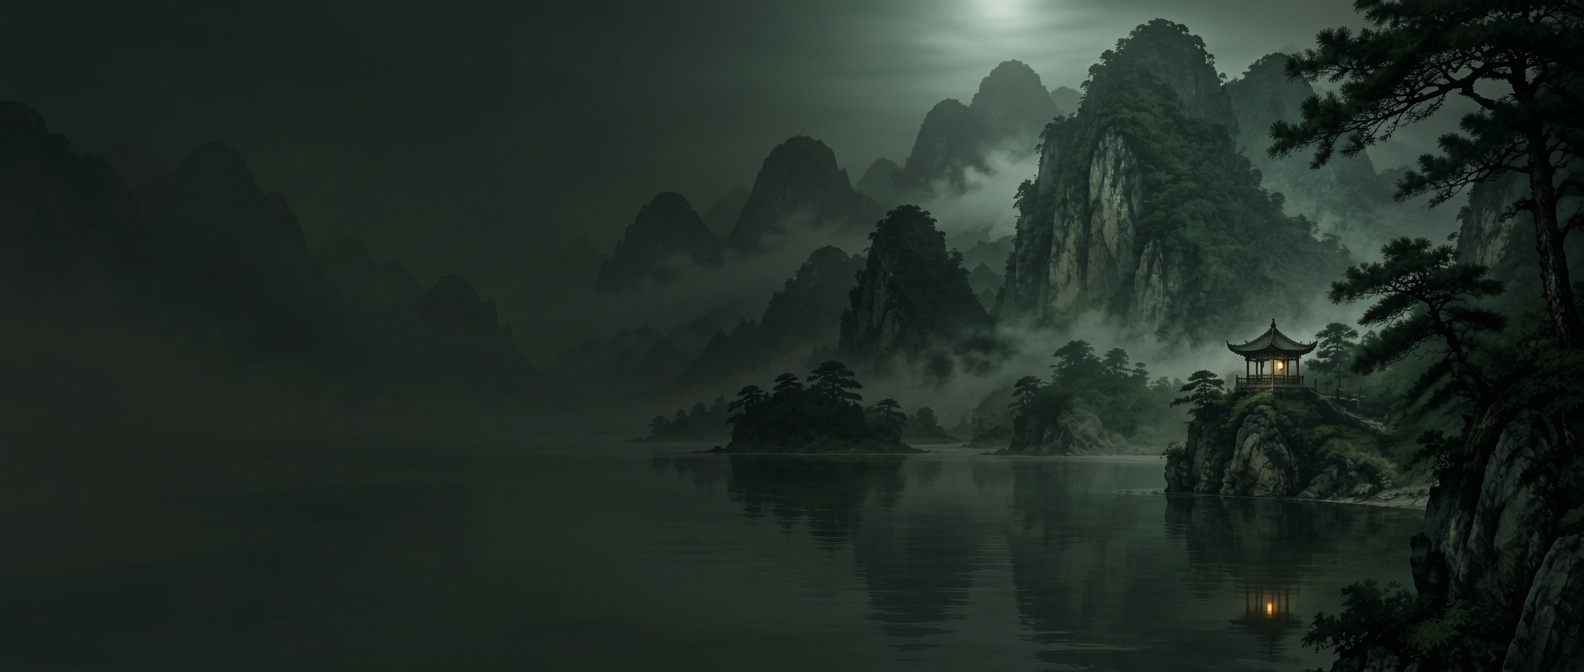
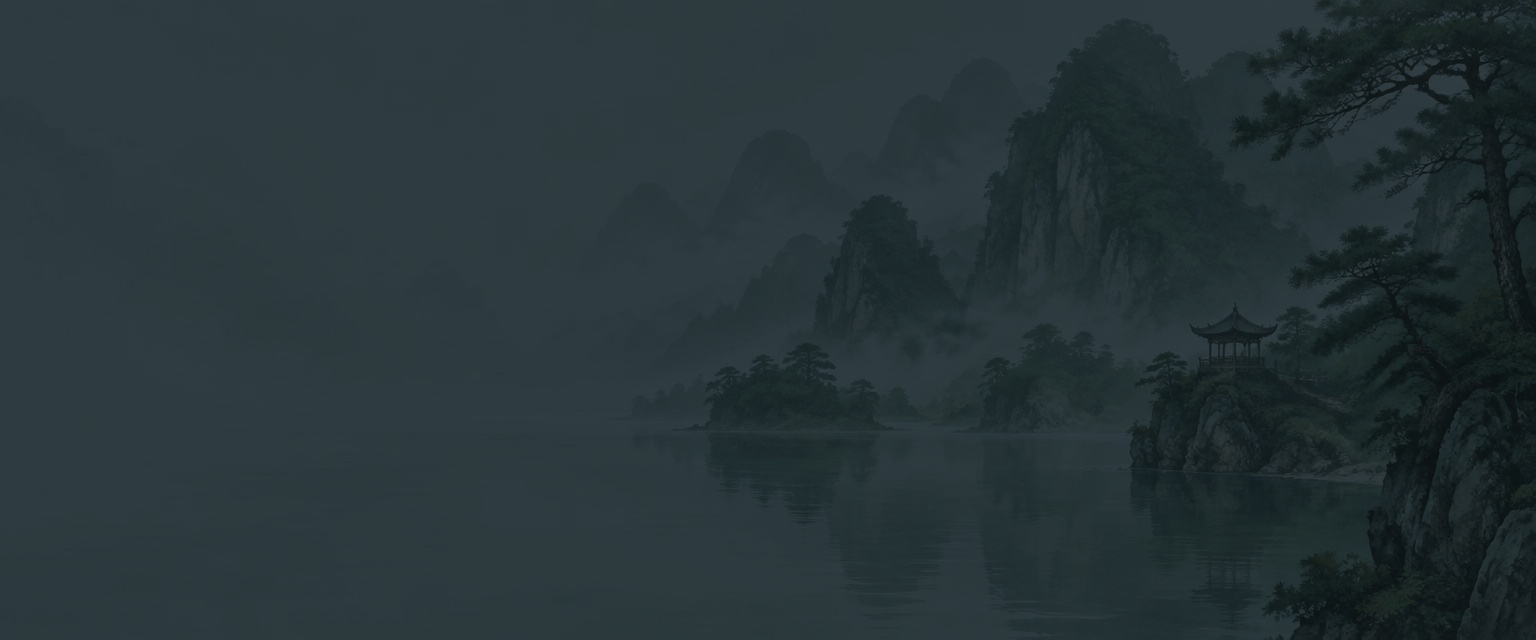
Changes

diff --git a/src/components/tutor/overview.tsx b/src/components/tutor/overview.tsx
@@ -31,11 +31,11 @@ function searchAll(items: Word[], query: string, includeTraditional = false): Se
 }
 
 export function OverviewPage() {
-  const { items, preferences, theme } = useWorkspace();
+  const { items, preferences } = useWorkspace();
   const [query, setQuery] = useState('');
   const hits = searchAll(items, query, preferences.includeTraditional);
   return <div className="page-enter"><div className="page-heading"><div><div className="eyebrow">YOUR DAILY DOSE OF MANDARIN</div><h1>Your Mandarin journey</h1><p>A little curiosity. A little practice. A little closer.</p></div><span className="heading-hanzi" lang="zh-CN">你好<span>nǐ hǎo</span></span></div>
-    <section className="journey-banner"><img src={theme === 'dark' ? mountainNight : mountain} width={1536} height={640} alt={theme === 'dark' ? 'Moonlit mountains and a lantern-lit Chinese pavilion beside a river' : 'Misty green mountains and a quiet Chinese pavilion beside a river'}/><div className="banner-copy"><span className="banner-eyebrow">学无止境 · LEARNING NEVER ENDS</span><h2>Small steps.<br/><em>A world of meaning.</em></h2><p>Discover the words. Hear the tones.<br/>Make the language your own.</p><div className="hero-search"><div className="search-field"><Search/><input aria-label="Search everything" placeholder="Search a word, character, pinyin, or meaning…" value={query} onChange={e => setQuery(e.target.value)}/></div>{query.trim() !== '' && <div className="hero-search-results" role="listbox" aria-label="Search results">{hits.length ? hits.map(hit => hit.kind === 'Word' ? <Link key={`w-${hit.word.id}`} to="/vocabulary" className="hero-search-hit" role="option" aria-selected={false} onClick={() => setQuery('')}><strong lang="zh-CN">{hit.word.hanzi}</strong><span className="pinyin">{hit.word.pinyin}</span><span className="hit-meaning">{hit.word.meaning}</span><span className="hit-kind">Word</span></Link> : <Link key={`${hit.kind}-${hit.hanzi}`} to="/strokes" search={{ character: hit.hanzi }} className="hero-search-hit" role="option" aria-selected={false} onClick={() => setQuery('')}><strong lang="zh-CN">{hit.hanzi}</strong><span className="pinyin">{hit.pinyin}</span><span className="hit-meaning">{hit.meaning}</span><span className="hit-kind">{hit.kind}</span></Link>) : <p className="hero-search-empty">No matches yet — try a character, pinyin, or English meaning.</p>}</div>}</div><Button asChild><Link to="/vocabulary">Explore vocabulary <ArrowRight/></Link></Button></div><span className="banner-seal" lang="zh-CN">一步<br/>一步</span></section>
+    <section className="journey-banner"><img className="banner-day" src={mountain} width={1536} height={640} alt="Misty mountains and a quiet Chinese pavilion beside a river"/><img className="banner-night" src={mountainNight} width={1536} height={640} alt="" aria-hidden="true"/><div className="banner-copy"><span className="banner-eyebrow">学无止境 · LEARNING NEVER ENDS</span><h2>Small steps.<br/><em>A world of meaning.</em></h2><p>Discover the words. Hear the tones.<br/>Make the language your own.</p><div className="hero-search"><div className="search-field"><Search/><input aria-label="Search everything" placeholder="Search a word, character, pinyin, or meaning…" value={query} onChange={e => setQuery(e.target.value)}/></div>{query.trim() !== '' && <div className="hero-search-results" role="listbox" aria-label="Search results">{hits.length ? hits.map(hit => hit.kind === 'Word' ? <Link key={`w-${hit.word.id}`} to="/vocabulary" className="hero-search-hit" role="option" aria-selected={false} onClick={() => setQuery('')}><strong lang="zh-CN">{hit.word.hanzi}</strong><span className="pinyin">{hit.word.pinyin}</span><span className="hit-meaning">{hit.word.meaning}</span><span className="hit-kind">Word</span></Link> : <Link key={`${hit.kind}-${hit.hanzi}`} to="/strokes" search={{ character: hit.hanzi }} className="hero-search-hit" role="option" aria-selected={false} onClick={() => setQuery('')}><strong lang="zh-CN">{hit.hanzi}</strong><span className="pinyin">{hit.pinyin}</span><span className="hit-meaning">{hit.meaning}</span><span className="hit-kind">{hit.kind}</span></Link>) : <p className="hero-search-empty">No matches yet — try a character, pinyin, or English meaning.</p>}</div>}</div><Button asChild><Link to="/vocabulary">Explore vocabulary <ArrowRight/></Link></Button></div><span className="banner-seal" lang="zh-CN">一步<br/>一步</span></section>
     <section className="stats-row" aria-label="Learning library statistics">{[{ icon: BookOpen, number: items.length, label: 'Words & phrases', note: 'Ready to explore' }, { icon: Layers, number: 4, label: 'Collections', note: 'For everyday life' }, { icon: PenLine, number: 18, label: 'Stroke types', note: 'Build your foundation' }, { icon: Type, number: 3, label: 'Character styles', note: 'Find your way to read' }].map(s => <div className="stat" key={s.label}><span className="stat-icon"><s.icon size={19}/></span><div><div className="stat-top"><strong>{s.number}</strong><span>{s.label}</span></div><span className="stat-note">{s.note}</span></div></div>)}</section>
     <section className="collection-section"><div className="section-heading"><div><div className="eyebrow">START SOMEWHERE SMALL</div><h2>Your vocabulary collection</h2></div><Button asChild variant="ghost" className="text-link"><Link to="/vocabulary">View all words <ArrowRight/></Link></Button></div><div className="word-grid overview-words">{items.slice(0,4).map(w => <WordCard word={w} key={w.id}/>)}</div></section>
     <div className="discovery-row"><section className="practice-feature"><div className="practice-feature-copy"><span className="eyebrow">FROM SEEING TO WRITING</span><h2>Get a feel for every stroke.</h2><p>Slow down. Follow the movement.<br/>Bring a character to life, one stroke at a time.</p><Button asChild variant="outline"><Link to="/strokes">Practice writing <ArrowRight/></Link></Button></div><div className="mini-character-grid" lang="zh-CN">永<span>yǒng</span></div></section><section className="daily-word"><div className="daily-word-top"><span className="eyebrow"><Sparkles size={13}/> A WORD TO TAKE WITH YOU</span><Button variant="ghost" size="icon" title="Listen to learning" aria-label="Listen to 学习" onClick={() => speak('学习', preferences.slow)}><Volume2/></Button></div><Link to="/vocabulary" search={{ q: '学习', word: 'xuexi' }} className="daily-word-content" aria-label="Open 学习 in dictionary"><div><span className="pinyin">xué xí</span><strong lang="zh-CN">学习</strong></div><div><h3>To learn</h3><p>Every new word is<br/>a new way to see.</p></div></Link><Button asChild variant="link"><Link to="/vocabulary" search={{ q: '学习', word: 'xuexi' }}>Open in dictionary <ArrowUpRight/></Link></Button></section></div>
